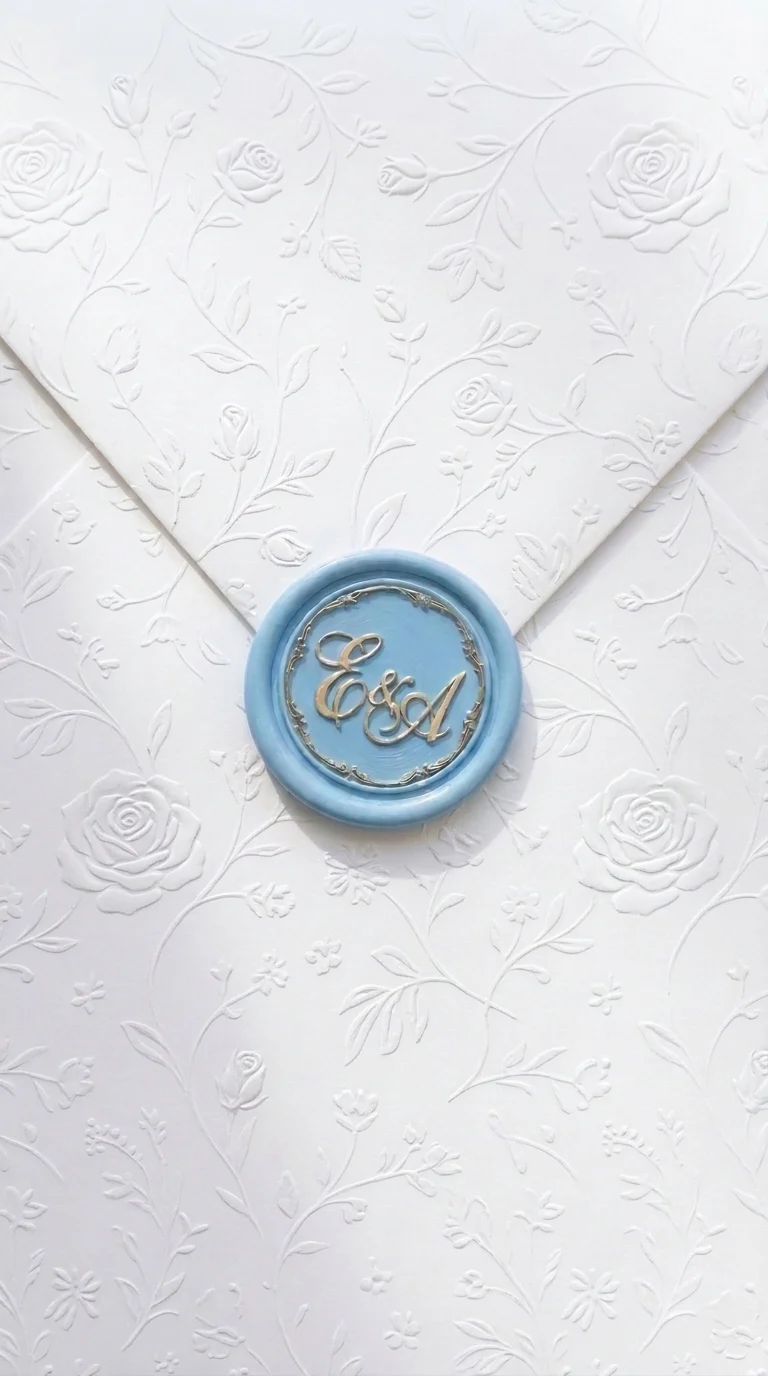
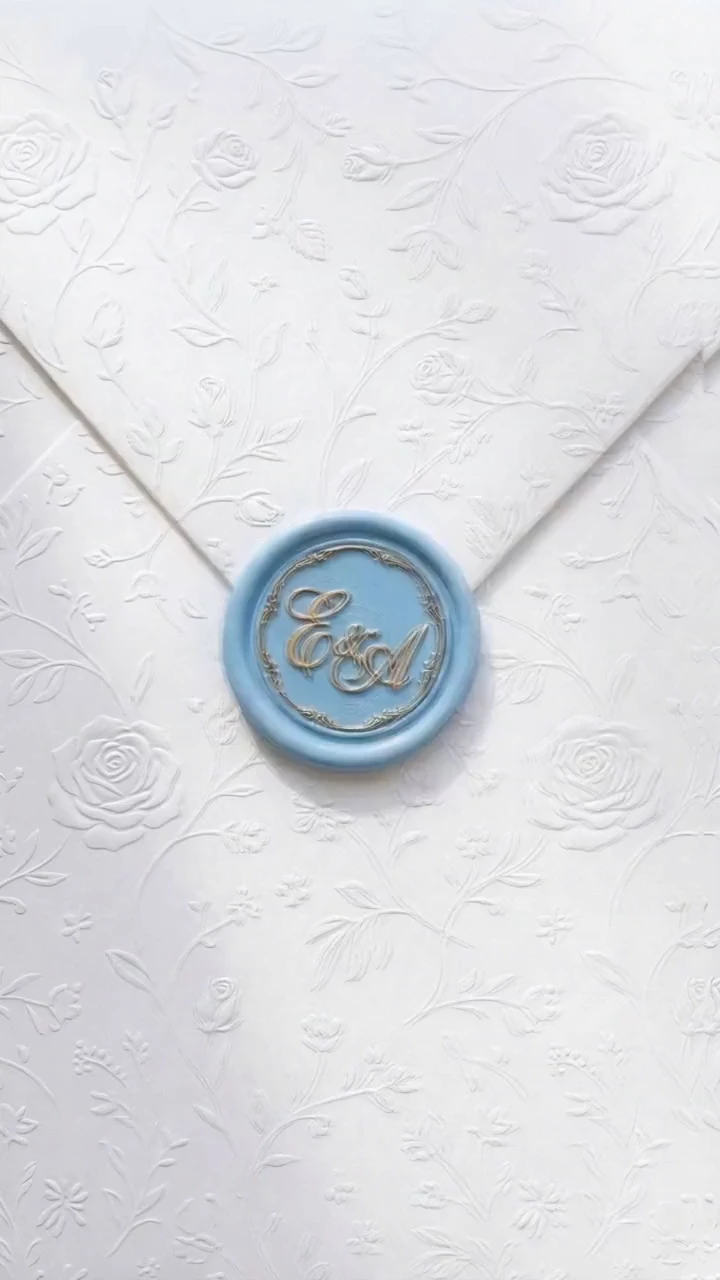
fix: portada del sobre = primer cuadro del video y cambio instantaneo al reproducir (sin salto visual)

diff --git a/index.html b/index.html
@@ -983,7 +983,7 @@ body{font-size:17px}
 
 <!-- ENVELOPE SCREEN -->
 <div id="envelope-screen" role="button" aria-label="Toca para abrir la invitación" tabindex="0">
-  <img id="env-image" src="sobre.webp?v=3" alt="">
+  <img id="env-image" src="sobre.webp?v=4" alt="">
   <video id="env-video" muted playsinline preload="auto">
     <source src="apertura.mp4?v=3" type="video/mp4">
   </video>
@@ -1625,8 +1625,11 @@ function launchInvitation(){
     if(envVideo){
       envVideo.currentTime=0;
       envVideo.play().catch(()=>{ triggerFlash(); });
-      gsap.to(envImage,{opacity:0,duration:.4});
-      gsap.to(envVideo,{opacity:1,duration:.4});
+      // cambio exacto: la imagen es el primer cuadro del video; se muestra el video solo cuando ya avanza
+      var swapped=false;
+      function swap(){ if(swapped) return; swapped=true; gsap.set(envVideo,{opacity:1}); gsap.set(envImage,{opacity:0,delay:.05}); }
+      envVideo.addEventListener('timeupdate',function onT(){ if(envVideo.currentTime>0.04){ envVideo.removeEventListener('timeupdate',onT); swap(); } });
+      if(envVideo.requestVideoFrameCallback){ envVideo.requestVideoFrameCallback(function(){ swap(); }); }
       envVideo.addEventListener('timeupdate',function onTick(){
         if(envVideo.currentTime>=VIDEO_CUT){
           envVideo.pause();
